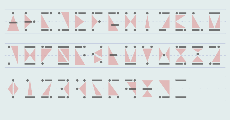
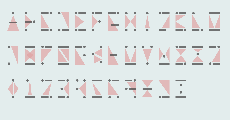
Update readme, exhibition and alphabet design.

diff --git a/letters.js b/letters.js
@@ -1,6 +1,10 @@
 const alphabet = {
   "default": {
     "size": 90,
+    "e1x": 50,
+    "e1y": 70,
+    "e2x": 50,
+    "e2y": 130,
     "r1x": 5,
     "r1y": 23,
     "r2x": 5,
@@ -243,13 +247,13 @@ const alphabet = {
     "t1y": 40,
     "t2x": 5,
     "t2y": 160,
-    "t3x": 50,
+    "t3x": 80,
     "t3y": 100,
     "t4x": 95,
     "t4y": 40,
     "t5x": 95,
     "t5y": 160,
-    "t6x": 50,
+    "t6x": 20,
     "t6y": 100,
     "r1x": 5,
     "r1y": 23,
@@ -387,7 +391,7 @@ const alphabet = {
     "t6x": 60,
     "t6y": 90,
     "e1x": 50,
-    "e1y": 100,
+    "e1y": 110,
     "r1x": 5,
     "r1y": 163
   },
@@ -474,9 +478,9 @@ const alphabet = {
     "size":80,
     "t1x": 50,
     "t1y": 20,
-    "t2x": 30,
+    "t2x": 35,
     "t2y": 155,
-    "t3x": 70,
+    "t3x": 65,
     "t3y": 155,
     "e1x": 30,
     "e1y": 30,

diff --git a/index.html b/index.html
@@ -4,7 +4,7 @@
     <script language="javascript" type="text/javascript" src="z_purview_helper.js"></script>
     <script language="javascript" type="text/javascript" src="letters.js"></script>
     <script language="javascript" type="text/javascript" src="draw_letters.js"></script>
-    <script language="javascript" type="text/javascript" src="alphabet.js"></script>
+    <script language="javascript" type="text/javascript" src="exhibition.js"></script>
 </head>
 <body style="background-color:white">
     <div class="outer">

diff --git a/draw_letters.js b/draw_letters.js
@@ -118,7 +118,7 @@ function interpolate_letter(percent, oldObj, newObj) {
 
 
 var swapWords = [
-  " MORSE  ",
-  "  CODE  ",
-  "TRIANGLE"
+  "MORSE CO",
+  "TRIANGLE",
+  "01234567"
 ]

diff --git a/exhibition.js b/exhibition.js
@@ -40,7 +40,7 @@ let curSwapWord = 0;
 
 var defaultSwapWords = [
   "ACTUALLY",
-  "12345678",
+  "23456789",
   "EXPECTED",
   "PROPERTY",
   "ADDITION",

diff --git a/README.md b/README.md
@@ -1,15 +1,33 @@
 ## PS2 MDDN 242 2019
 
-Part 3 - Interpolation and Final Alphabet Design
+Part 4 - Exhibition and Final Alphabets Design
 
-These are all my alphabets that I used the idea of morse code and triangle to design them. The circles and rectangles showed the morse code. I was thinking of using their own actual morse code to design them, but I have tried my best to use all of them to design it. For example, the letter 'A' is 1 circle with 1 rectangle and I have tried to joined one circle, one rectangle and traingle together to form an 'A'. However, some of the letters were hard to join all circles and rectangles together to make them look exactly like the letters. For instant, the morse code for letter 'E' has only one circle, I can't join a circle and triangle to form the letter 'E'. In this case, I just added some circles and rectangles to form the letter 'E'. I have used two different colors for different shapes. Grey color is used for circles and rectangles which represented the morse code, while pale red color is used for triangles. Lastly, I have added all of the function interpolate_letter in my file.
+
+This is my final design of my alphabets. I was trying to think of another name which has the combination of the morse code and the triangles. However, the final name of my font is called "Morse Co", it's actually the short version of the name "Morse Code".
 
 The parameters per letter:
-  * `size1` : length of the rectangle
-  * `c1x` : x axis of the circle
-  * `c1y` : y axis of the circle
-  * `r1x` : x axis of the rectangle
-  * `r1y` : y axis of the rectangle
-  * `t1x` : x axis of the triangle
-  * `t1y` : y axis of the triangle
-  ....
+  * `size` : length of the rectangle
+  * `t1x` : x axis of the first corner of the first triangle
+  * `t1y` : y axis of the first corner of the first triangle
+  * `t2x` : x axis of the second corner of the first triangle
+  * `t2y` : y axis of the second corner of the first triangle
+  * `t3x` : x axis of the third corner of the first triangle
+  * `t3y` : y axis of the third corner of the first triangle
+  * `t4x` : x axis of the first corner of the second triangle
+  * `t4y` : y axis of the first corner of the second triangle
+  * `t5x` : x axis of the second corner of the second triangle
+  * `t5y` : y axis of the second corner of the second triangle
+  * `t6x` : x axis of the third corner of the second triangle
+  * `t6y` : y axis of the third corner of the second triangle
+  * `e1x` : x axis of the first circle
+  * `e1y` : y axis of the first circle
+  * `e2x` : x axis of the second circle
+  * `e2y` : y axis of the second circle
+  * `e3x` : x axis of the third circle
+  * `e3y` : y axis of the third circle
+  * `e4x` : x axis of the fourth circle
+  * `e4y` : y axis of the fourth circle
+  * `r1x` : x axis of the first rectangle
+  * `r1y` : y axis of the first rectangle
+  * `r2x` : x axis of the second rectangle
+  * `r2y` : y axis of the second rectangle
